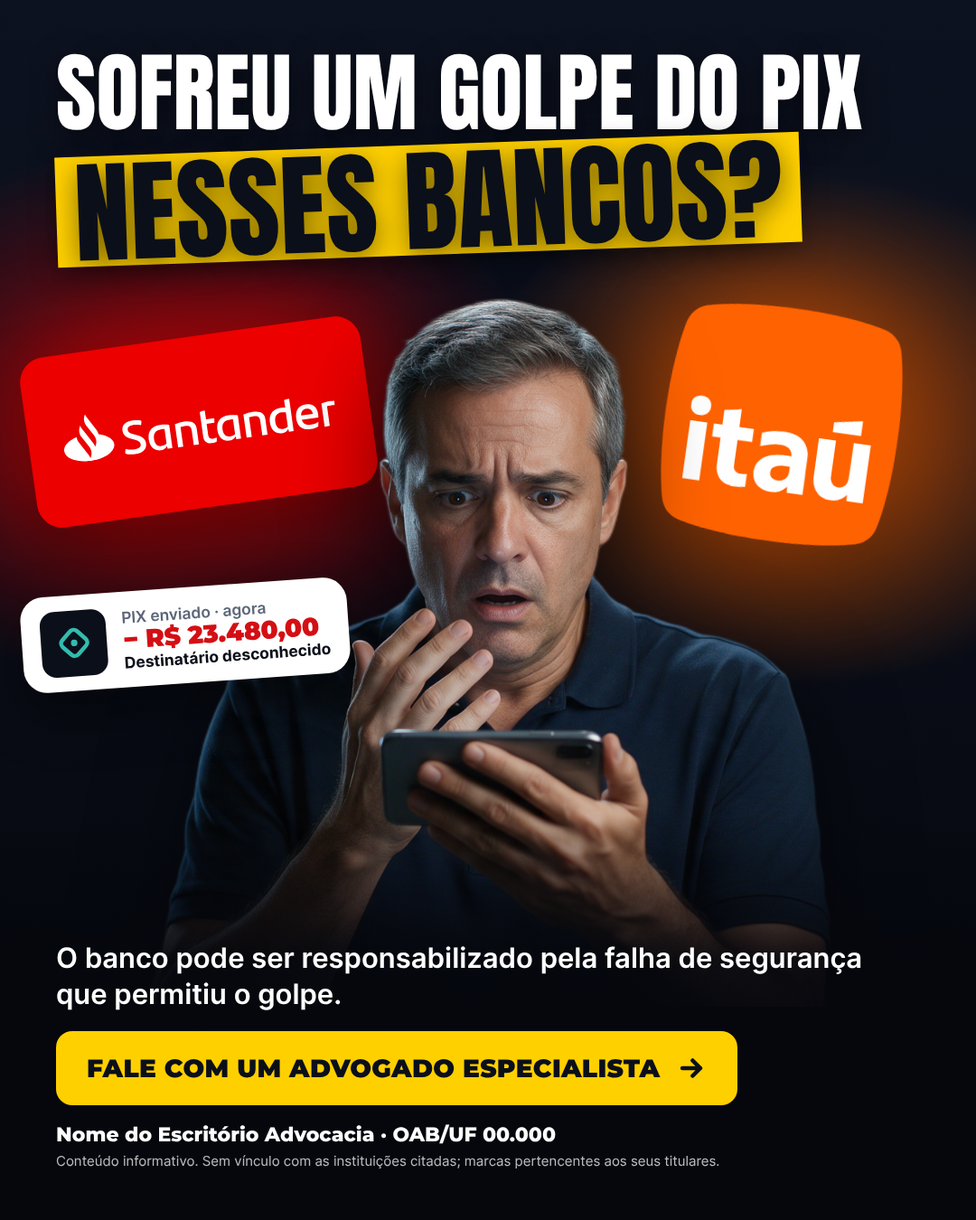
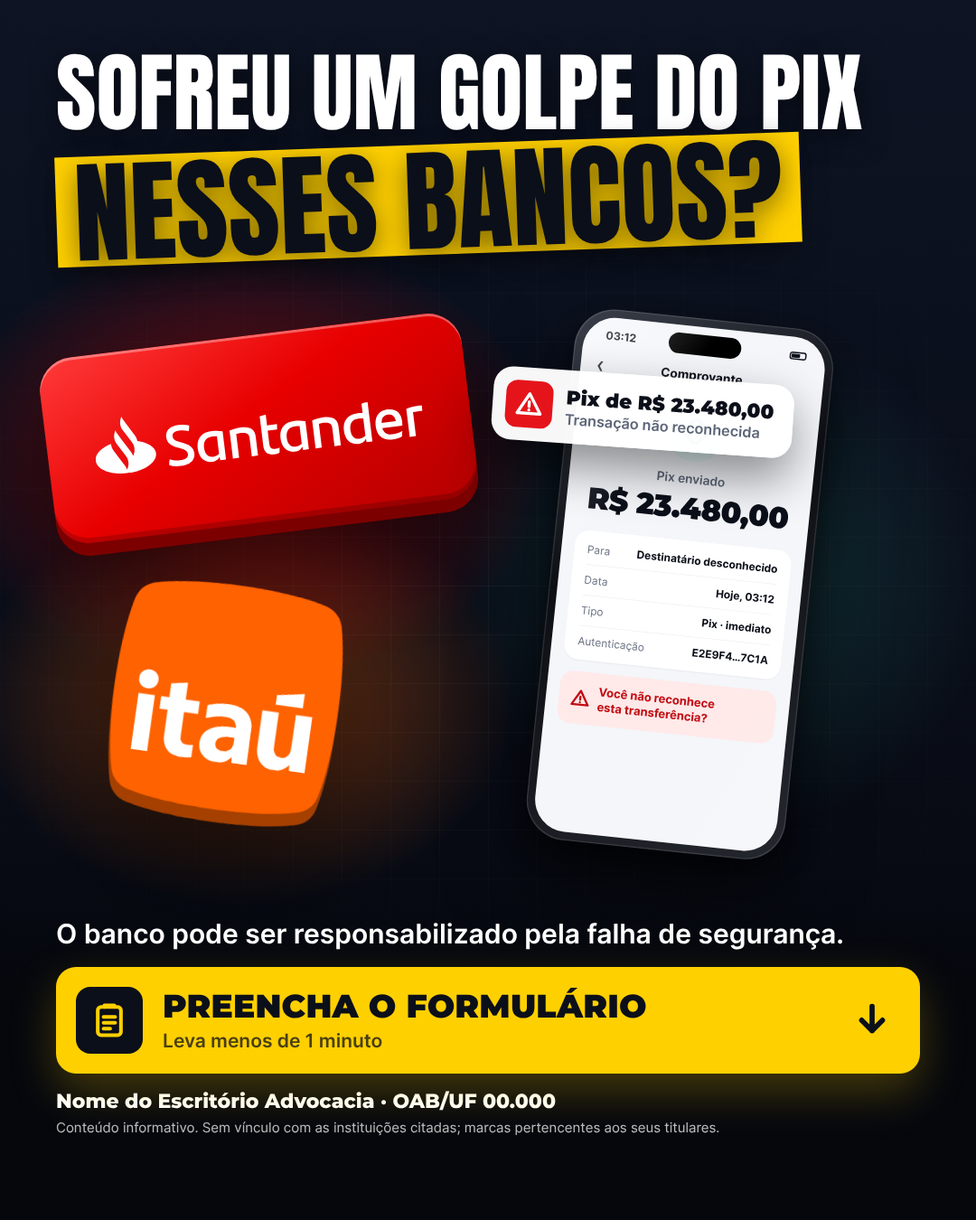
Refaz estáticos de golpe PIX sem pessoas e com CTA de formulário
Três conceitos (noturno, alerta amarelo, formulário) em feed 4:5 e stories
9:16: logos do Santander e Itaú como elementos 3D/adesivos, celular com
comprovante de PIX suspeito, mockup de formulário e CTA "Preencha o
formulário". Remove a foto de pessoa.

Claude-Session: https://claude.ai/code/session_01C88VYSrV5KwM4zc5MDCskW

diff --git a/estaticos-golpe-pix/build.js b/estaticos-golpe-pix/build.js
@@ -9,10 +9,11 @@ const { chromium } = require('playwright');
 const CONFIG = {
   escritorio: 'Nome do Escritório Advocacia',
   oab: 'OAB/UF 00.000',
-  apoio: 'O banco pode ser responsabilizado pela falha de segurança que permitiu o golpe.',
-  cta: 'Fale com um advogado especialista',
+  apoio: 'O banco pode ser responsabilizado pela falha de segurança.',
+  cta: 'Preencha o formulário',
+  ctaSub: 'Leva menos de 1 minuto',
   disclaimer: 'Conteúdo informativo. Sem vínculo com as instituições citadas; marcas pertencentes aos seus titulares.',
-  pix: { titulo: 'PIX enviado', valor: 'R$ 23.480,00', quem: 'Destinatário desconhecido' },
+  valor: 'R$ 23.480,00',
 };
 
 const FORMATOS = [
@@ -29,159 +30,261 @@ const LOGO = {
   itauSolido: A('logos/itau-solido.svg'),
   itauBranco: A('logos/itau-branco.svg'),
 };
-const PESSOA = A('foto/pessoa.png');
 
 const fonte = (fam, arq, w) => `@font-face{font-family:'${fam}';font-weight:${w};src:url('${A('fonts/' + arq)}') format('woff2')}`;
 const BASE_CSS = `
 ${fonte('Anton', 'anton-latin-400-normal.woff2', 400)}
-${fonte('Archivo Black', 'archivo-black-latin-400-normal.woff2', 400)}
 ${[600, 700, 800, 900].map((w) => fonte('Montserrat', `montserrat-latin-${w}-normal.woff2`, w)).join('\n')}
 ${[400, 500, 600, 700].map((w) => fonte('Inter', `inter-latin-${w}-normal.woff2`, w)).join('\n')}
-:root{--red:#EC0000;--orange:#FF6200;--yellow:#FFD000;--ink:#0b0f19;--pix:#32BCAD}
+:root{--red:#EC0000;--orange:#FF6200;--yellow:#FFD000;--ink:#0b0f19;--pix:#32BCAD;--alert:#E5141B}
 *{box-sizing:border-box;margin:0;padding:0}
 body{font-family:'Inter',sans-serif;-webkit-font-smoothing:antialiased;background:#000}
 .cv{position:relative;overflow:hidden}
 .abs{position:absolute}
-.hl{font-family:'Anton',sans-serif;text-transform:uppercase;line-height:.94;letter-spacing:.005em}
-.mark{display:inline-block;background:var(--yellow);color:var(--ink);padding:.04em .16em .0em;transform:rotate(-2deg);box-shadow:0 10px 30px rgba(0,0,0,.35)}
-.pessoa{position:absolute;filter:drop-shadow(0 30px 50px rgba(0,0,0,.55))}
-.btn{display:inline-flex;align-items:center;gap:18px;font-family:'Montserrat';font-weight:900;text-transform:uppercase;letter-spacing:.01em;border-radius:18px}
-.btn svg{flex:none}
+.hl{font-family:'Anton',sans-serif;text-transform:uppercase;line-height:.94;letter-spacing:.005em;white-space:nowrap}
+.mark{display:inline-block;background:var(--yellow);color:var(--ink);padding:.04em .16em 0;transform:rotate(-2deg);box-shadow:0 10px 30px rgba(0,0,0,.35)}
+.inv{display:inline-block;color:#fff;background:var(--ink);padding:.04em .16em 0;transform:rotate(-1.5deg)}
 .foot{font-size:18px;line-height:1.35}
 .foot b{font-family:'Montserrat';font-weight:800;font-size:22px;display:block}
 .foot small{display:block;font-size:15px;opacity:.72;margin-top:4px}
-.notif{position:absolute;background:#fff;border-radius:26px;display:grid;grid-template-columns:auto 1fr;gap:18px;align-items:center;
-  box-shadow:0 24px 60px rgba(0,0,0,.45);color:var(--ink)}
-.notif .ic{border-radius:16px;background:var(--ink);display:flex;align-items:center;justify-content:center}
-.notif .t{font-size:.62em;color:#5d6678;font-weight:600}
-.notif .v{font-family:'Montserrat';font-weight:900;color:#d40f14;letter-spacing:-.01em;line-height:1.05}
-.notif .q{font-size:.62em;font-weight:700;color:var(--ink)}
-.sticker{position:absolute;border-radius:28px;display:flex;align-items:center;justify-content:center;box-shadow:0 26px 60px rgba(0,0,0,.45)}
+.esc{position:absolute;left:0;top:0;transform-origin:0 0}
+
+/* ---------- botão de formulário ---------- */
+.cta{display:flex;align-items:center;gap:22px;border-radius:22px;padding:22px 30px 22px 22px;font-family:'Montserrat';position:relative}
+.cta .ico{flex:none;width:74px;height:74px;border-radius:16px;display:flex;align-items:center;justify-content:center}
+.cta .tx b{display:block;font-weight:900;text-transform:uppercase;font-size:36px;letter-spacing:.005em;line-height:1}
+.cta .tx span{display:block;font-family:'Inter';font-weight:600;font-size:21px;opacity:.75;margin-top:8px}
+.cta .seta{margin-left:auto;flex:none}
+
+/* ---------- celular (desenhado em 400x820, escalado) ---------- */
+.phone{width:400px;height:820px;border-radius:62px;background:linear-gradient(145deg,#3a3f4a,#0d0f14 40%,#24272e);padding:13px;
+  box-shadow:inset 0 0 0 2px rgba(255,255,255,.12),0 60px 120px rgba(0,0,0,.6),0 20px 40px rgba(0,0,0,.4)}
+.phone .scr{position:relative;width:100%;height:100%;border-radius:50px;background:#f4f6fa;overflow:hidden;color:var(--ink)}
+.phone .island{position:absolute;left:50%;top:12px;width:112px;height:32px;border-radius:20px;background:#000;transform:translateX(-50%)}
+.phone .sb{display:flex;justify-content:space-between;padding:18px 30px 0 34px;font-weight:700;font-size:17px}
+.phone .sb i{display:inline-block;width:26px;height:12px;border:2px solid var(--ink);border-radius:4px;position:relative;vertical-align:middle}
+.phone .sb i:after{content:'';position:absolute;left:1px;top:1px;bottom:1px;width:60%;background:var(--ink);border-radius:1px}
+.phone .top{display:flex;align-items:center;justify-content:center;position:relative;margin-top:26px;font-weight:700;font-size:19px}
+.phone .top:before{content:'‹';position:absolute;left:24px;font-size:34px;line-height:0;top:10px;font-weight:500}
+.phone .pixico{margin:28px auto 0;width:92px;height:92px;border-radius:50%;background:#e2f6f3;display:flex;align-items:center;justify-content:center}
+.phone .lbl{text-align:center;color:#5d6678;font-weight:600;font-size:19px;margin-top:16px}
+.phone .val{text-align:center;font-family:'Montserrat';font-weight:900;font-size:46px;letter-spacing:-.02em;margin-top:4px}
+.phone .card{margin:22px 20px 0;background:#fff;border-radius:22px;padding:6px 20px;box-shadow:0 2px 0 rgba(0,0,0,.03)}
+.phone .row{display:flex;justify-content:space-between;padding:13px 0;font-size:16.5px;border-bottom:1px solid #eef0f4}
+.phone .row:last-child{border:0}
+.phone .row span{color:#6b7385}
+.phone .row b{font-weight:700}
+.phone .warn{margin:18px 20px 0;background:#ffe9e9;color:#c10e14;border-radius:20px;padding:18px 18px;display:flex;gap:12px;align-items:center;font-weight:800;font-size:18px;line-height:1.25}
+.phone .glare{position:absolute;inset:0;border-radius:50px;background:linear-gradient(115deg,rgba(255,255,255,.35) 0%,rgba(255,255,255,0) 28%,rgba(255,255,255,0) 70%,rgba(255,255,255,.12) 100%);pointer-events:none}
+
+/* ---------- toast de alerta ---------- */
+.toast{display:flex;align-items:center;gap:16px;background:rgba(255,255,255,.97);border-radius:24px;padding:16px 24px 16px 16px;
+  box-shadow:0 26px 60px rgba(0,0,0,.45);color:var(--ink);white-space:nowrap}
+.toast .ti{width:58px;height:58px;border-radius:14px;background:var(--alert);display:flex;align-items:center;justify-content:center;color:#fff}
+.toast b{display:block;font-family:'Montserrat';font-weight:900;font-size:24px}
+.toast span{display:block;font-size:18px;color:#5d6678;font-weight:600;margin-top:2px}
+
+/* ---------- blocos 3D dos bancos ---------- */
+.tile-s{border-radius:34px;background:linear-gradient(150deg,#ff3a3a 0%,#e80000 45%,#b30000 100%);display:flex;align-items:center;justify-content:center;
+  box-shadow:inset 0 3px 0 rgba(255,255,255,.35),inset 0 -6px 0 rgba(0,0,0,.18),0 14px 0 #7d0000,0 50px 90px rgba(0,0,0,.55)}
+.tile-s img{width:78%}
+.tile-i{filter:drop-shadow(0 14px 0 #a54000) drop-shadow(0 50px 50px rgba(0,0,0,.5))}
+
+/* ---------- formulário (desenhado em 600 de largura) ---------- */
+.form{width:600px;background:#fff;border-radius:36px;padding:38px 38px 34px;color:var(--ink);box-shadow:0 60px 120px rgba(0,0,0,.45),0 16px 30px rgba(0,0,0,.2)}
+.form h4{font-family:'Montserrat';font-weight:900;font-size:32px;letter-spacing:-.01em}
+.form .q{font-weight:700;font-size:20px;margin-top:26px;color:#3a4357}
+.form .ops{display:grid;grid-template-columns:1fr 1fr;gap:14px;margin-top:12px}
+.form .op{height:96px;border-radius:18px;border:3px solid #e3e7ef;display:flex;align-items:center;justify-content:center;position:relative;background:#fff}
+.form .op.on{border-color:var(--pix);background:#effbf9}
+.form .op.on:after{content:'✓';position:absolute;right:-12px;top:-12px;width:36px;height:36px;border-radius:50%;background:var(--pix);color:#fff;font-weight:900;font-size:21px;display:flex;align-items:center;justify-content:center}
+.form .in{margin-top:12px;height:70px;border-radius:16px;background:#f3f5f9;border:2px solid #e3e7ef;display:flex;align-items:center;padding:0 22px;font-size:24px;font-weight:700}
+.form .in.c{border-color:var(--ink)}
+.form .in.c:after{content:'';width:3px;height:30px;background:var(--ink);margin-left:4px}
+.form .go{margin-top:28px;height:84px;border-radius:18px;background:var(--pix);color:#05302b;display:flex;align-items:center;justify-content:center;gap:14px;
+  font-family:'Montserrat';font-weight:900;font-size:28px;text-transform:uppercase}
 `;
 
-const seta = (s = 34) => `<svg width="${s}" height="${s}" viewBox="0 0 24 24" fill="none" stroke="currentColor" stroke-width="3.2" stroke-linecap="round" stroke-linejoin="round"><path d="M5 12h14M13 6l6 6-6 6"/></svg>`;
-const alerta = (s = 30) => `<svg width="${s}" height="${s}" viewBox="0 0 24 24" fill="none" stroke="currentColor" stroke-width="2.6" stroke-linecap="round" stroke-linejoin="round"><path d="M12 3 2 20h20L12 3z"/><path d="M12 10v4M12 17h.01"/></svg>`;
-const icoPix = (s) => `<svg width="${s * 0.6}" height="${s * 0.6}" viewBox="0 0 48 48"><rect x="11" y="11" width="26" height="26" rx="6" transform="rotate(45 24 24)" fill="none" stroke="#32BCAD" stroke-width="5"/><circle cx="24" cy="24" r="4" fill="#32BCAD"/></svg>`;
+// ---------------------------------------------------------------------------
+// componentes
+// ---------------------------------------------------------------------------
+const svgAlerta = (s, cor = 'currentColor') => `<svg width="${s}" height="${s}" viewBox="0 0 24 24" fill="none" stroke="${cor}" stroke-width="2.6" stroke-linecap="round" stroke-linejoin="round"><path d="M12 3 2 20h20L12 3z"/><path d="M12 10v4M12 17h.01"/></svg>`;
+const svgForm = (s, cor) => `<svg width="${s}" height="${s}" viewBox="0 0 24 24" fill="none" stroke="${cor}" stroke-width="2.2" stroke-linecap="round" stroke-linejoin="round"><rect x="5" y="4" width="14" height="17" rx="2"/><path d="M9 4V3h6v1"/><path d="M8.5 10h7M8.5 13.5h7M8.5 17h4"/></svg>`;
+const svgDown = (s, cor) => `<svg width="${s}" height="${s}" viewBox="0 0 24 24" fill="none" stroke="${cor}" stroke-width="3" stroke-linecap="round" stroke-linejoin="round"><path d="M12 5v14M6 13l6 6 6-6"/></svg>`;
+const svgPix = (s) => `<svg width="${s}" height="${s}" viewBox="0 0 48 48"><rect x="11" y="11" width="26" height="26" rx="6" transform="rotate(45 24 24)" fill="none" stroke="#1e9e91" stroke-width="5"/><circle cx="24" cy="24" r="4" fill="#1e9e91"/></svg>`;
+const svgCursor = (s) => `<svg width="${s}" height="${s}" viewBox="0 0 24 24"><path d="M5 3l14 8-6 1.6L10.5 19z" fill="#0b0f19" stroke="#fff" stroke-width="1.4" stroke-linejoin="round"/></svg>`;
 
-const notif = ({ x, y, fs, rot = -4, ic = 84 }) => `
-  <div class="notif" style="left:${x}px;top:${y}px;font-size:${fs}px;padding:${fs * 0.6}px ${fs * 0.75}px;transform:rotate(${rot}deg)">
-    <div class="ic" style="width:${ic}px;height:${ic}px">${icoPix(ic)}</div>
-    <div><div class="t">${CONFIG.pix.titulo} · agora</div><div class="v">− ${CONFIG.pix.valor}</div><div class="q">${CONFIG.pix.quem}</div></div>
+const esc = ({ x, y, k, rot = 0, extra = '' }, html) =>
+  `<div class="esc" style="transform:translate(${x}px,${y}px) rotate(${rot}deg) scale(${k}) ${extra}">${html}</div>`;
+
+const celular = () => `
+  <div class="phone"><div class="scr">
+    <div class="island"></div>
+    <div class="sb"><span>03:12</span><span><i></i></span></div>
+    <div class="top">Comprovante</div>
+    <div class="pixico">${svgPix(54)}</div>
+    <div class="lbl">Pix enviado</div>
+    <div class="val">${CONFIG.valor}</div>
+    <div class="card">
+      <div class="row"><span>Para</span><b>Destinatário desconhecido</b></div>
+      <div class="row"><span>Data</span><b>Hoje, 03:12</b></div>
+      <div class="row"><span>Tipo</span><b>Pix · imediato</b></div>
+      <div class="row"><span>Autenticação</span><b>E2E9F4…7C1A</b></div>
+    </div>
+    <div class="warn">${svgAlerta(30, '#c10e14')}<span>Você não reconhece<br>esta transferência?</span></div>
+    <div class="glare"></div>
+  </div></div>`;
+
+const toast = (titulo, sub) => `
+  <div class="toast"><div class="ti">${svgAlerta(34, '#fff')}</div><div><b>${titulo}</b><span>${sub}</span></div></div>`;
+
+const tileSantander = (w) => `<div class="tile-s" style="width:${w}px;height:${Math.round(w * 0.44)}px;border-radius:${w * 0.08}px"><img src="${LOGO.santanderBranco}"></div>`;
+const tileItau = (w) => `<img class="tile-i" src="${LOGO.itauSolido}" style="width:${w}px;display:block">`;
+
+const formulario = () => `
+  <div class="form">
+    <h4>Conte o que aconteceu</h4>
+    <div class="q">Em qual banco foi o golpe?</div>
+    <div class="ops">
+      <div class="op on"><img src="${LOGO.santander}" style="width:200px"></div>
+      <div class="op"><img src="${LOGO.itau}" style="width:66px"></div>
+    </div>
+    <div class="q">Valor transferido</div>
+    <div class="in c">${CONFIG.valor}</div>
+    <div class="q">Quando aconteceu?</div>
+    <div class="in" style="color:#8a93a6">Nos últimos 30 dias</div>
+    <div class="go">Enviar ${svgDown(30, '#05302b').replace('M12 5v14M6 13l6 6 6-6', 'M5 12h14M13 6l6 6-6 6')}</div>
   </div>`;
 
-const rodape = (cor) => `<div class="foot" style="color:${cor}"><b>${CONFIG.escritorio} · ${CONFIG.oab}</b><small>${CONFIG.disclaimer}</small></div>`;
-
-// Título em linhas explícitas (sem quebra automática), cada uma com seu tamanho.
 const titulo = (st, { cor = '#fff', alinhar = 'left', inverso = false } = {}) => {
   const linhas = st
     ? [['Sofreu um golpe', 134], ['do PIX', 134], ['nesses bancos?', 128, true]]
     : [['Sofreu um golpe do PIX', 96], ['nesses bancos?', 124, true]];
-  return `<div class="hl" style="color:${cor};text-align:${alinhar};white-space:nowrap">${linhas
-    .map(([t, fs, m]) => m
+  return `<div class="hl" style="color:${cor};text-align:${alinhar}">${linhas
+    .map(([t, fs, m]) => (m
       ? `<div style="margin-top:${st ? 18 : 12}px"><span class="${inverso ? 'inv' : 'mark'}" style="font-size:${fs}px">${t}</span></div>`
-      : `<div style="font-size:${fs}px">${t}</div>`)
+      : `<div style="font-size:${fs}px">${t}</div>`))
     .join('')}</div>`;
 };
 
-const blocoBase = (st, { botaoBg, botaoCor, alinhar = 'left' }) => `
-  <p style="font-size:${st ? 35 : 31}px;line-height:1.28;font-weight:600;max-width:950px;${alinhar === 'center' ? 'margin:0 auto' : ''}">${CONFIG.apoio}</p>
-  <div class="btn" style="margin-top:${st ? 28 : 22}px;background:${botaoBg};color:${botaoCor};font-size:${st ? 31 : 28}px;padding:24px 34px">${CONFIG.cta} ${seta()}</div>
-  <div style="margin-top:${st ? 24 : 18}px">${rodape('#fff')}</div>`;
+const cta = ({ bg, cor, icoBg, icoCor, sombra }) => `
+  <div class="cta" style="background:${bg};color:${cor};box-shadow:${sombra}">
+    <div class="ico" style="background:${icoBg}">${svgForm(44, icoCor)}</div>
+    <div class="tx"><b>${CONFIG.cta}</b><span>${CONFIG.ctaSub}</span></div>
+    <div class="seta">${svgDown(46, cor)}</div>
+  </div>`;
+
+const rodape = (cor) => `<div class="foot" style="color:${cor}"><b>${CONFIG.escritorio} · ${CONFIG.oab}</b><small>${CONFIG.disclaimer}</small></div>`;
+
+const base = (st, ctaOpts, corTexto = '#fff') => `
+  <p style="font-size:30px;line-height:1.28;font-weight:600;color:${corTexto}">${CONFIG.apoio}</p>
+  <div style="margin-top:${st ? 24 : 18}px">${cta(ctaOpts)}</div>
+  <div style="margin-top:${st ? 22 : 16}px">${rodape(corTexto)}</div>`;
+
+// Stories reaproveita a composição do feed, deslocada para baixo (título mais alto).
+const DY = (st) => (st ? 392 : 0);
 
 // ---------------------------------------------------------------------------
-// 01 · NOTURNO — fundo escuro, logos iluminados atrás da pessoa
+// 01 · NOTURNO — fundo escuro, blocos 3D dos bancos + celular com o comprovante
 // ---------------------------------------------------------------------------
 function noturno(f) {
   const st = f.id === 'stories';
-  const L = st
-    ? { top: 262, pw: 900, pTop: 700, sx: 30, sy: 740, sw: 360, ix: 742, iy: 700, iw: 280, nx: 26, ny: 1090, nfs: 31, fade: 1250, base: 1385 }
-    : { top: 58, pw: 760, pTop: 330, sx: 30, sy: 372, sw: 380, ix: 730, iy: 335, iw: 270, nx: 24, ny: 650, nfs: 28, fade: 900, base: 1040 };
+  const d = DY(st);
+  const L = { top: st ? 262 : 58, s: { x: 40, y: 400 + d, w: 470, r: -7 }, i: { x: 140, y: 625 + d, w: 260, r: 8 },
+    p: { x: 640, y: 338 + d, k: 0.72, r: 6 }, t: { x: 548, y: 404 + d, k: 0.9 }, base: 1014 + d };
   return `
   <style>
-    .n1{width:${f.w}px;height:${f.h}px;background:radial-gradient(55% 32% at 18% ${((L.sy + 90) / f.h) * 100}%,rgba(236,0,0,.6),transparent 70%),
-      radial-gradient(50% 30% at 82% ${((L.iy + 140) / f.h) * 100}%,rgba(255,98,0,.6),transparent 70%),linear-gradient(180deg,#0d1220,#05070d)}
+    .n1{width:${f.w}px;height:${f.h}px;background:
+      radial-gradient(45% 26% at 25% ${((L.s.y + 110) / f.h) * 100}%,rgba(236,0,0,.55),transparent 70%),
+      radial-gradient(40% 24% at 25% ${((L.i.y + 150) / f.h) * 100}%,rgba(255,98,0,.45),transparent 70%),
+      radial-gradient(40% 30% at 74% ${((L.p.y + 300) / f.h) * 100}%,rgba(50,188,173,.22),transparent 70%),
+      linear-gradient(180deg,#0e1424,#05070d)}
+    .n1 .grid{position:absolute;inset:0;background-image:linear-gradient(rgba(255,255,255,.045) 1px,transparent 1px),linear-gradient(90deg,rgba(255,255,255,.045) 1px,transparent 1px);
+      background-size:54px 54px;-webkit-mask-image:radial-gradient(70% 45% at 50% ${((L.p.y + 300) / f.h) * 100}%,#000,transparent)}
     .n1 .hl{text-shadow:0 8px 30px rgba(0,0,0,.5)}
-    .n1 .fade{position:absolute;left:0;right:0;top:${L.fade}px;bottom:0;background:linear-gradient(180deg,rgba(5,7,13,0),rgba(5,7,13,.93) 36%,#05070d 66%)}
+    .n1 .fade{position:absolute;left:0;right:0;top:${L.base - 70}px;bottom:0;background:linear-gradient(180deg,rgba(5,7,13,0),#05070d 40%)}
   </style>
   <div class="cv n1">
-    <div class="sticker" style="left:${L.sx}px;top:${L.sy}px;width:${L.sw}px;height:${L.sw * 0.5}px;background:var(--red);transform:rotate(-8deg);box-shadow:0 0 110px rgba(236,0,0,.6),0 26px 60px rgba(0,0,0,.5)">
-      <img src="${LOGO.santanderBranco}" style="width:${L.sw * 0.8}px">
-    </div>
-    <img class="abs" src="${LOGO.itauSolido}" style="left:${L.ix}px;top:${L.iy}px;width:${L.iw}px;transform:rotate(8deg);filter:drop-shadow(0 0 70px rgba(255,98,0,.7)) drop-shadow(0 26px 40px rgba(0,0,0,.5))">
-    <img class="pessoa" src="${PESSOA}" style="width:${L.pw}px;left:${(f.w - L.pw) / 2}px;top:${L.pTop}px">
-    ${notif({ x: L.nx, y: L.ny, fs: L.nfs, ic: L.nfs * 2.6 })}
+    <div class="grid"></div>
+    ${esc({ x: L.s.x, y: L.s.y, k: 1, rot: L.s.r }, tileSantander(L.s.w))}
+    ${esc({ x: L.i.x, y: L.i.y, k: 1, rot: L.i.r }, tileItau(L.i.w))}
+    ${esc({ x: L.p.x, y: L.p.y, k: L.p.k, rot: L.p.r }, celular())}
+    ${esc({ x: L.t.x, y: L.t.y, k: L.t.k, rot: 4 }, toast('Pix de ' + CONFIG.valor, 'Transação não reconhecida'))}
     <div class="abs" style="left:62px;right:40px;top:${L.top}px">${titulo(st)}</div>
     <div class="fade"></div>
-    <div class="abs" style="left:62px;right:62px;top:${L.base}px;color:#fff">${blocoBase(st, { botaoBg: 'var(--yellow)', botaoCor: 'var(--ink)' })}</div>
+    <div class="abs" style="left:62px;right:62px;top:${L.base}px">${base(st, {
+      bg: 'var(--yellow)', cor: 'var(--ink)', icoBg: 'var(--ink)', icoCor: 'var(--yellow)', sombra: '0 20px 50px rgba(255,208,0,.25)',
+    })}</div>
   </div>`;
 }
 
 // ---------------------------------------------------------------------------
-// 02 · ALERTA — fundo amarelo de alerta, logos como adesivos, pessoa à direita
+// 02 · ALERTA — fundo amarelo, celular central com os logos colados como adesivos
 // ---------------------------------------------------------------------------
 function alertaAmarelo(f) {
   const st = f.id === 'stories';
-  const L = st
-    ? { top: 262, pw: 860, pL: 250, pTop: 790, sx: 40, sy: 830, sw: 400, ix: 90, iy: 1060, iw: 250, band: 1400 }
-    : { top: 66, pw: 780, pL: 300, pTop: 392, sx: 40, sy: 420, sw: 390, ix: 90, iy: 640, iw: 230, band: 1050 };
+  const d = DY(st);
+  const L = { top: st ? 262 : 66, p: { x: 372, y: 372 + d, k: 0.72, r: -5 }, s: { x: 28, y: 470 + d, w: 360, r: -9 },
+    i: { x: 742, y: 600 + d, w: 230, r: 9 }, band: 1012 + d };
+  const sticker = (html, pad, raio) => `<div style="background:#fff;padding:${pad}px;border-radius:${raio}px;box-shadow:0 30px 60px rgba(0,0,0,.35)">${html}</div>`;
   return `
   <style>
-    .a2{width:${f.w}px;height:${f.h}px;background:radial-gradient(80% 60% at 70% 55%,#ffe14d,var(--yellow) 60%,#f2b800)}
-    .a2 .dots{position:absolute;inset:0;background-image:radial-gradient(rgba(0,0,0,.09) 2px,transparent 2.5px);background-size:22px 22px;
-      -webkit-mask-image:linear-gradient(180deg,transparent 25%,#000 65%)}
+    .a2{width:${f.w}px;height:${f.h}px;background:radial-gradient(80% 60% at 55% 55%,#ffe352,var(--yellow) 60%,#f0b400)}
+    .a2 .dots{position:absolute;inset:0;background-image:radial-gradient(rgba(0,0,0,.1) 2px,transparent 2.6px);background-size:22px 22px;
+      -webkit-mask-image:linear-gradient(180deg,transparent 22%,#000 70%)}
     .a2 .stripe{position:absolute;left:0;right:0;top:0;height:26px;background:repeating-linear-gradient(-45deg,var(--ink) 0 26px,var(--yellow) 26px 52px)}
-    .a2 .inv{display:inline-block;color:#fff;background:var(--ink);padding:.04em .16em 0;transform:rotate(-1.5deg)}
-    .a2 .band{position:absolute;left:0;right:0;top:${L.band}px;bottom:0;background:var(--ink);color:#fff;padding:${st ? 40 : 34}px 62px 0}
+    .a2 .band{position:absolute;left:0;right:0;top:${L.band}px;bottom:0;background:var(--ink);padding:${st ? 40 : 32}px 62px 0}
+    .a2 .band:before{content:'';position:absolute;left:0;right:0;top:-26px;height:26px;background:repeating-linear-gradient(-45deg,var(--ink) 0 26px,var(--yellow) 26px 52px)}
   </style>
   <div class="cv a2">
     <div class="dots"></div>
     <div class="stripe"></div>
     <div class="abs" style="left:62px;right:40px;top:${L.top}px">
-      <div style="display:inline-flex;align-items:center;gap:12px;font-family:'Montserrat';font-weight:900;font-size:${st ? 30 : 26}px;letter-spacing:.16em;color:var(--ink);margin-bottom:${st ? 18 : 12}px">${alerta(st ? 36 : 30)} ALERTA · GOLPE DO PIX</div>
+      <div style="display:inline-flex;align-items:center;gap:12px;font-family:'Montserrat';font-weight:900;font-size:${st ? 30 : 26}px;letter-spacing:.16em;color:var(--ink);margin-bottom:${st ? 18 : 12}px">${svgAlerta(st ? 36 : 30)} ALERTA · GOLPE DO PIX</div>
       ${titulo(st, { cor: 'var(--ink)', inverso: true })}
     </div>
-    <img class="pessoa" src="${PESSOA}" style="width:${L.pw}px;left:${L.pL}px;top:${L.pTop}px">
-    <div class="sticker" style="left:${L.sx}px;top:${L.sy}px;width:${L.sw}px;height:${L.sw * 0.42}px;background:var(--red);border:8px solid #fff;transform:rotate(-7deg)">
-      <img src="${LOGO.santanderBranco}" style="width:${L.sw * 0.76}px">
-    </div>
-    <div class="sticker" style="left:${L.ix}px;top:${L.iy}px;width:${L.iw + 16}px;height:${L.iw + 16}px;background:#fff;border-radius:${L.iw * 0.3}px;transform:rotate(6deg)">
-      <img src="${LOGO.itau}" style="width:${L.iw}px">
-    </div>
-    <div class="band">${blocoBase(st, { botaoBg: 'var(--yellow)', botaoCor: 'var(--ink)' })}</div>
+    ${esc({ x: L.p.x, y: L.p.y, k: L.p.k, rot: L.p.r }, celular())}
+    ${esc({ x: L.s.x, y: L.s.y, k: 1, rot: L.s.r }, sticker(tileSantander(L.s.w).replace('0 14px 0 #7d0000,0 50px 90px rgba(0,0,0,.55)', 'none'), 10, L.s.w * 0.1))}
+    ${esc({ x: L.i.x, y: L.i.y, k: 1, rot: L.i.r }, sticker(`<img src="${LOGO.itau}" style="width:${L.i.w}px;display:block">`, 12, L.i.w * 0.32))}
+    <div class="band">${base(st, {
+      bg: 'var(--yellow)', cor: 'var(--ink)', icoBg: 'var(--ink)', icoCor: 'var(--yellow)', sombra: 'none',
+    })}</div>
   </div>`;
 }
 
 // ---------------------------------------------------------------------------
-// 03 · SPLIT — metade vermelha Santander, metade laranja Itaú, pessoa no centro
+// 03 · FORMULÁRIO — split vermelho/laranja, logos grandes e o formulário em destaque
 // ---------------------------------------------------------------------------
-function split(f) {
+function formularioSplit(f) {
   const st = f.id === 'stories';
-  const L = st
-    ? { top: 262, pw: 900, pTop: 720, sc: 225, sy: 800, sw: 330, ic: 860, iy: 720, iw: 250, nx: 640, ny: 1100, nfs: 30, fade: 1250, base: 1385 }
-    : { top: 58, pw: 760, pTop: 330, sc: 225, sy: 420, sw: 330, ic: 860, iy: 345, iw: 230, nx: 640, ny: 650, nfs: 27, fade: 900, base: 1040 };
+  const d = DY(st);
+  const L = { top: st ? 262 : 58, s: { x: 36, y: 392 + d, w: 410 }, i: { x: 130, y: 590 + d, w: 230 },
+    fm: { x: 488, y: 352 + d, k: 0.88, r: 3 }, cur: { x: 800, y: 880 + d }, base: 1014 + d };
   return `
   <style>
-    .s3{width:${f.w}px;height:${f.h}px;background:linear-gradient(100deg,#ff2424 0%,var(--red) 30%,#b80000 49.9%,#e05200 50.1%,var(--orange) 70%,#ff8a3a 100%)}
-    .s3 .ray{position:absolute;inset:0;background:repeating-conic-gradient(from 0deg at 50% ${((L.pTop + 250) / f.h) * 100}%,rgba(255,255,255,.07) 0 6deg,transparent 6deg 18deg)}
-    .s3 .hl{text-shadow:0 8px 30px rgba(0,0,0,.35)}
-    .s3 .fade{position:absolute;left:0;right:0;top:${L.fade}px;bottom:0;background:linear-gradient(180deg,rgba(11,15,25,0),rgba(11,15,25,.92) 36%,var(--ink) 66%)}
+    .f3{width:${f.w}px;height:${f.h}px;background:linear-gradient(100deg,#ff2626 0%,var(--red) 30%,#b80000 49.9%,#e05200 50.1%,var(--orange) 70%,#ff8a3a 100%)}
+    .f3 .ray{position:absolute;inset:0;background:repeating-conic-gradient(from 0deg at 50% ${((L.fm.y + 280) / f.h) * 100}%,rgba(255,255,255,.07) 0 6deg,transparent 6deg 18deg)}
+    .f3 .hl{text-shadow:0 8px 30px rgba(0,0,0,.35)}
+    .f3 .fade{position:absolute;left:0;right:0;top:${L.base - 70}px;bottom:0;background:linear-gradient(180deg,rgba(11,15,25,0),var(--ink) 40%)}
   </style>
-  <div class="cv s3">
+  <div class="cv f3">
     <div class="ray"></div>
-    <img class="abs" src="${LOGO.santanderBranco}" style="left:${L.sc - L.sw / 2}px;top:${L.sy}px;width:${L.sw}px;filter:drop-shadow(0 10px 30px rgba(0,0,0,.3))">
-    <img class="abs" src="${LOGO.itauBranco}" style="left:${L.ic - L.iw / 2}px;top:${L.iy}px;width:${L.iw}px;transform:rotate(6deg);filter:drop-shadow(0 18px 40px rgba(0,0,0,.35))">
-    <img class="pessoa" src="${PESSOA}" style="width:${L.pw}px;left:${(f.w - L.pw) / 2}px;top:${L.pTop}px">
-    ${notif({ x: L.nx, y: L.ny, fs: L.nfs, rot: 4, ic: L.nfs * 2.6 })}
+    <img class="abs" src="${LOGO.santanderBranco}" style="left:${L.s.x}px;top:${L.s.y}px;width:${L.s.w}px;transform:rotate(-6deg);filter:drop-shadow(0 12px 30px rgba(0,0,0,.3))">
+    <img class="abs" src="${LOGO.itauBranco}" style="left:${L.i.x}px;top:${L.i.y}px;width:${L.i.w}px;transform:rotate(-8deg);filter:drop-shadow(0 18px 40px rgba(0,0,0,.35))">
     <div class="abs" style="left:20px;right:20px;top:${L.top}px">${titulo(st, { alinhar: 'center' })}</div>
+    ${esc({ x: L.fm.x, y: L.fm.y, k: L.fm.k, rot: L.fm.r }, formulario())}
+    <div class="abs" style="left:${L.cur.x}px;top:${L.cur.y}px;filter:drop-shadow(0 8px 14px rgba(0,0,0,.35))">${svgCursor(74)}</div>
     <div class="fade"></div>
-    <div class="abs" style="left:62px;right:62px;top:${L.base}px;color:#fff;text-align:center">${blocoBase(st, { botaoBg: '#fff', botaoCor: 'var(--ink)', alinhar: 'center' })}</div>
+    <div class="abs" style="left:62px;right:62px;top:${L.base}px">${base(st, {
+      bg: '#fff', cor: 'var(--ink)', icoBg: 'var(--pix)', icoCor: '#fff', sombra: '0 20px 50px rgba(0,0,0,.35)',
+    })}</div>
   </div>`;
 }
 
 const CONCEITOS = [
   ['01-noturno', noturno],
   ['02-alerta', alertaAmarelo],
-  ['03-split', split],
+  ['03-formulario', formularioSplit],
 ];
 
 (async () => {

diff --git a/estaticos-golpe-pix/README.md b/estaticos-golpe-pix/README.md
@@ -6,11 +6,11 @@ Criativos estáticos para anúncios (Meta Ads) de escritório de direito bancár
 
 | Conceito | Feed 4:5 (1080×1350) | Stories/Reels 9:16 (1080×1920) |
 |---|---|---|
-| 01 · Noturno: fundo escuro, logos iluminados atrás da pessoa + notificação de PIX | `01-noturno-feed.png` | `01-noturno-stories.png` |
-| 02 · Alerta: fundo amarelo de alerta, logos como adesivos, faixa preta com CTA | `02-alerta-feed.png` | `02-alerta-stories.png` |
-| 03 · Split: metade vermelha Santander / metade laranja Itaú, pessoa no centro | `03-split-feed.png` | `03-split-stories.png` |
+| 01 · Noturno: fundo escuro, blocos 3D do Santander e do Itaú + celular com comprovante de PIX suspeito | `01-noturno-feed.png` | `01-noturno-stories.png` |
+| 02 · Alerta: fundo amarelo com faixa de perigo, celular com os logos colados como adesivos | `02-alerta-feed.png` | `02-alerta-stories.png` |
+| 03 · Formulário: split vermelho/laranja, logos grandes e o formulário sendo preenchido | `03-formulario-feed.png` | `03-formulario-stories.png` |
 
-A foto (`assets/foto/pessoa.png`) foi gerada por IA (pessoa fictícia) e recortada do fundo.
+Sem fotos de pessoas. CTA: "Preencha o formulário" (anúncio de cadastro / formulário instantâneo da Meta).
 Nos Stories, título e CTA ficam dentro das zonas seguras.
 
 ## Como editar e gerar de novo
